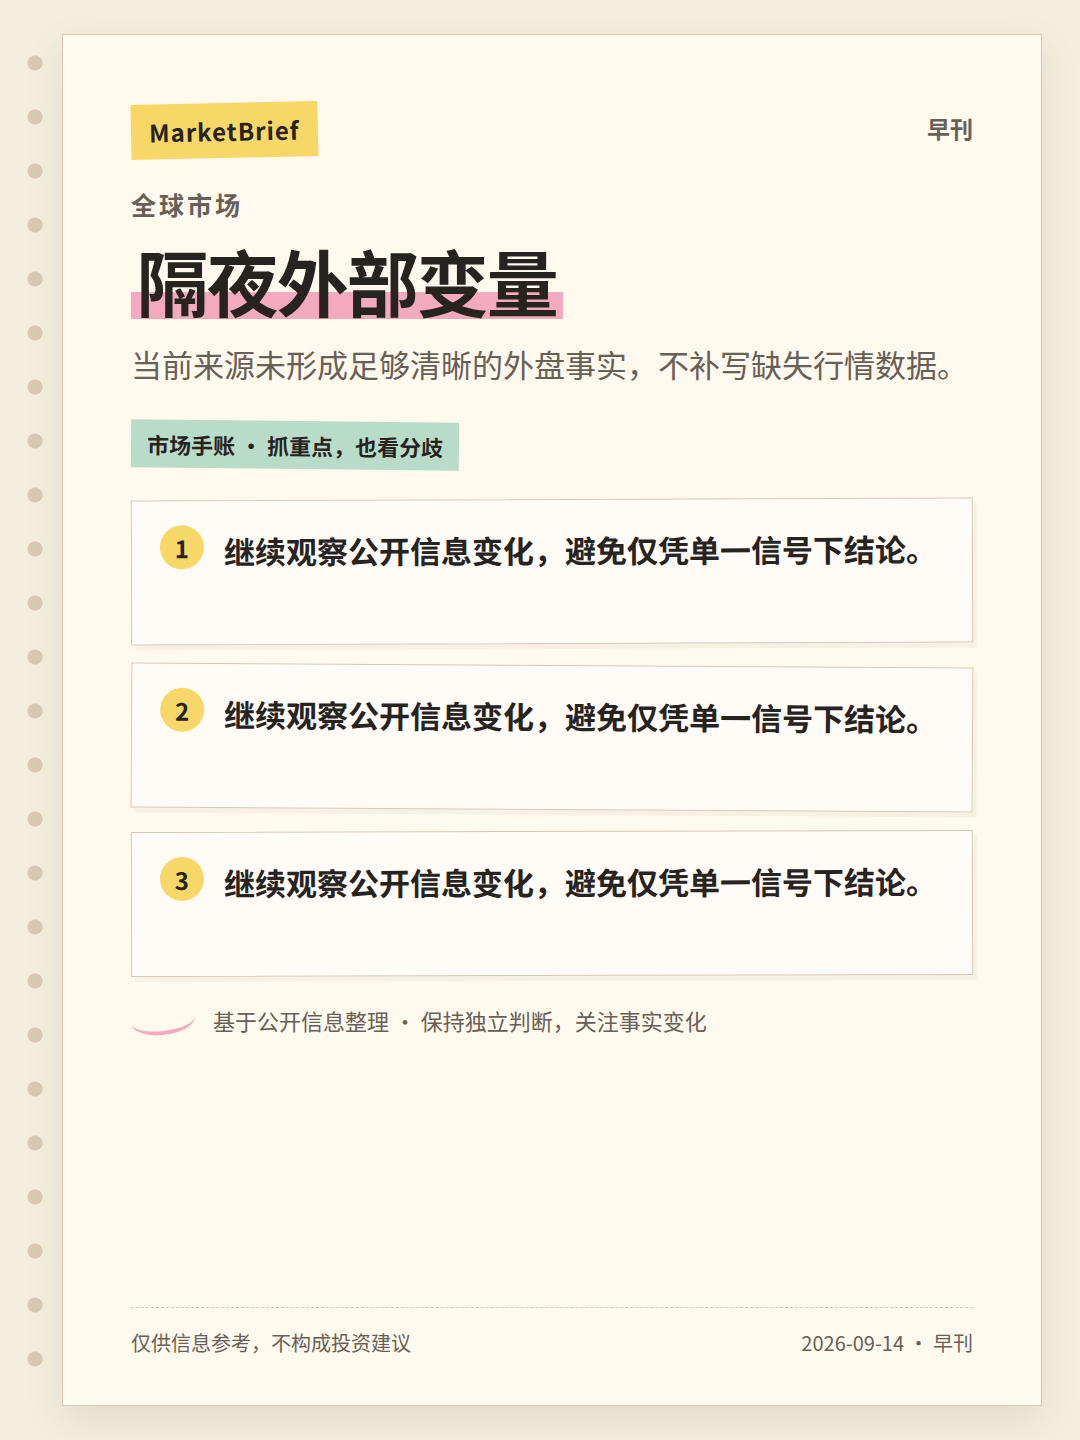
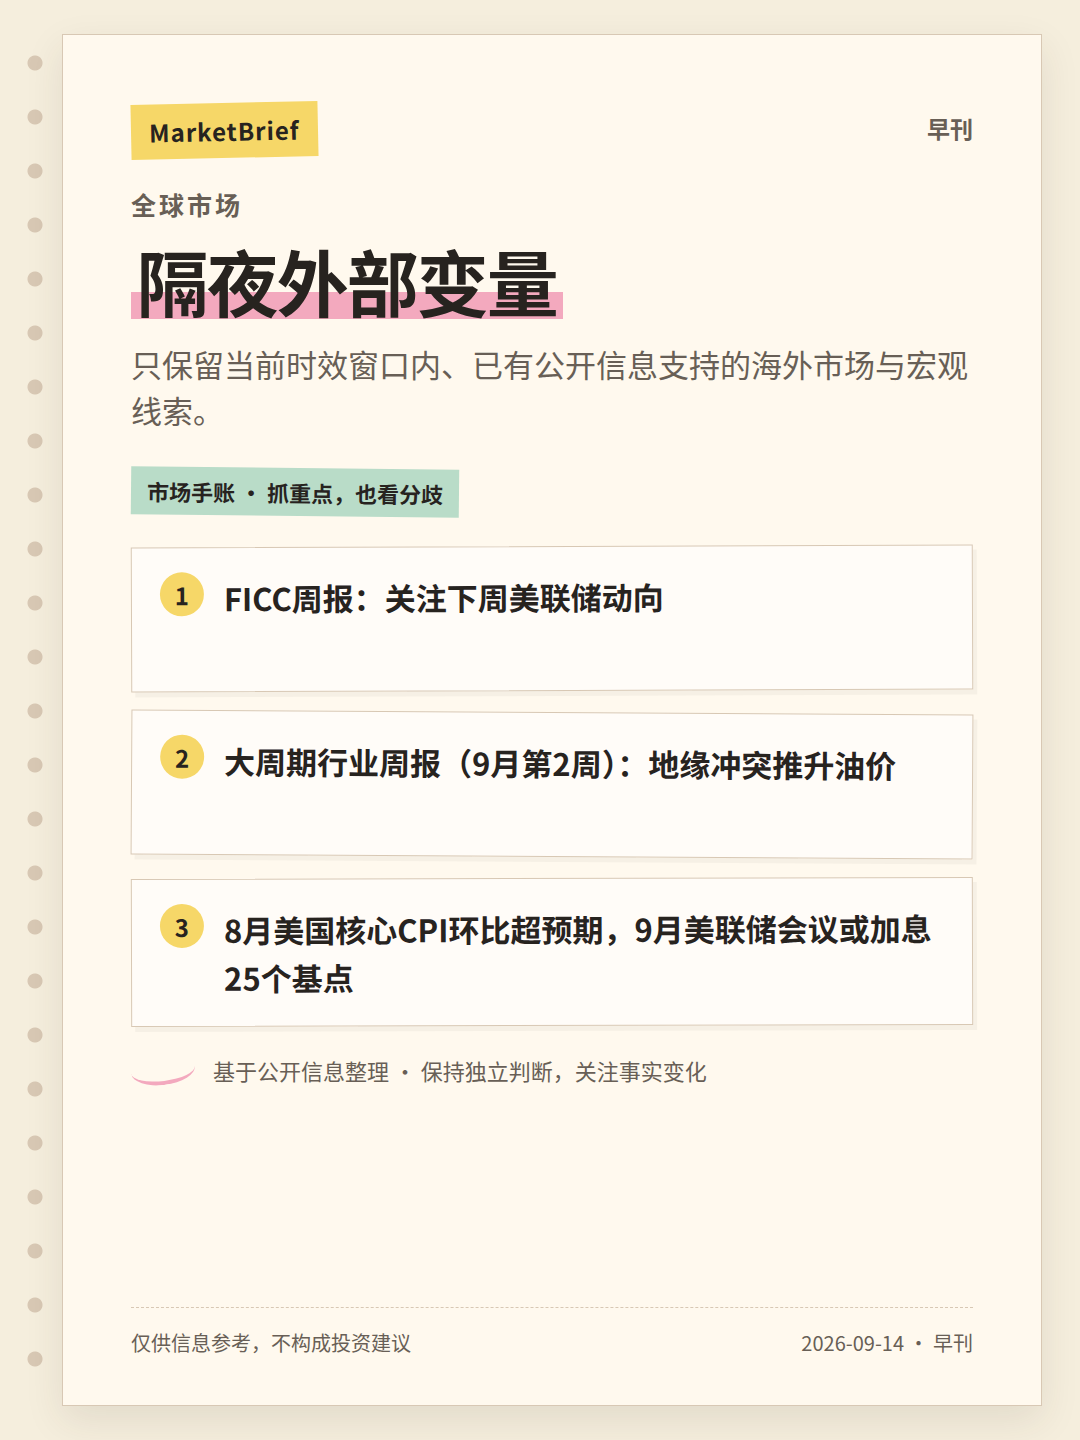
MarketBrief: publish dated edition

Changed region(s): [[0.1222, 0.2188, 0.8861, 0.4375], [0.1528, 0.5938, 0.8556, 0.75], [0.1222, 0.4688, 0.8556, 0.5625]]

diff --git a/output/marketbrief/2026-09-14/am/2026-09-14-am-01.html b/output/marketbrief/2026-09-14/am/2026-09-14-am-01.html
@@ -24,10 +24,10 @@ footer{position:absolute;z-index:1;left:68px;right:68px;bottom:48px;border-top:1
 <body><main>
 <div class="top"><span class="tape">MarketBrief</span><span class="edition">早刊</span></div>
 <div class="kicker">今日简报</div>
-<h1><span>雪天盐业发行股份、沈鼓集团主板IP成焦点</span></h1>
-<div class="sub">早刊基于4份有效来源分析，当前重点为雪天盐业发行股份、沈鼓集团主板IP。仅保留时效合格的公开信息，事实、研究观点与市场情绪分开呈现。</div>
+<h1><span>FICC周报：关、大周期行业周报：成焦点</span></h1>
+<div class="sub">早刊基于5份有效来源分析，当前重点为FICC周报：关、大周期行业周报：。仅保留时效合格的公开信息，事实、研究观点与市场情绪分开呈现。</div>
 <div class="ribbon">市场手账 · 抓重点，也看分歧</div>
-<div class="notes"><section class="note"><b>1</b><p>雪天盐业发行股份购买资产预案更正：发布更正后预案及更正提示公告，涉及发行股份及支付现金购买资产并募集配套资金暨关联交易</p></section><section class="note"><b>2</b><p>沈鼓集团主板IPO发行完成：首次公开发行股票并在主板上市发行结果公告及招股说明书提示性公告</p></section><section class="note"><b>3</b><p>鸿路钢构签订重大经营协议：公司签订重大经营协议，涉及业务扩张或订单获取</p></section></div>
+<div class="notes"><section class="note"><b>1</b><p>FICC周报：关注下周美联储动向</p></section><section class="note"><b>2</b><p>大周期行业周报（9月第2周）：地缘冲突推升油价</p></section><section class="note"><b>3</b><p>8月美国核心CPI环比超预期，9月美联储会议或加息25个基点</p></section></div>
 <div class="margin"><span class="sketch"></span><span>基于公开信息整理 · 保持独立判断，关注事实变化</span></div>
 <footer><span>仅供信息参考，不构成投资建议</span><span>2026-09-14 · 早刊</span></footer>
 </main></body></html>

diff --git a/output/marketbrief/2026-09-14/am/2026-09-14-am-05.html b/output/marketbrief/2026-09-14/am/2026-09-14-am-05.html
@@ -27,7 +27,7 @@ footer{position:absolute;z-index:1;left:68px;right:68px;bottom:48px;border-top:1
 <h1><span>事实、观点与情绪分开看</span></h1>
 <div class="sub">先看已确认事实，再看研究判断和市场情绪是否一致。</div>
 <div class="ribbon">市场手账 · 抓重点，也看分歧</div>
-<div class="notes"><section class="note"><b>1</b><p>雪天盐业发行股份购买资产预案更正：发布更正后预案及更正提示公告，涉及发行股份及支付现金购买资产并募集配套资金暨关联交易</p></section><section class="note"><b>2</b><p>AI产业链业绩放量：鹏鼎控股AI业务放量对冲端侧疲软、毛利率提升超5pct；广电运通AI机器人及算力业务前景可期；顺络电子TLVR电感与钽电容构筑AI增量；思特威&#x27;3+AI&#x27;驱动多元发展</p></section><section class="note"><b>3</b><p>CPO板块持续活跃：易中天相关个股大涨，CPO概念板块热度居前</p></section></div>
+<div class="notes"><section class="note"><b>1</b><p>关于刊发H股招股说明书、H股发行价格上限及H股香港公开发售等事宜的公告</p></section><section class="note"><b>2</b><p>FICC周报：关注下周美联储动向</p></section><section class="note"><b>3</b><p>CPO板块持续活跃：易中天等个股大涨，板块热度居前</p></section></div>
 <div class="margin"><span class="sketch"></span><span>基于公开信息整理 · 保持独立判断，关注事实变化</span></div>
 <footer><span>仅供信息参考，不构成投资建议</span><span>2026-09-14 · 早刊</span></footer>
 </main></body></html>

diff --git a/output/marketbrief/2026-09-14/am/2026-09-14-am-04.html b/output/marketbrief/2026-09-14/am/2026-09-14-am-04.html
@@ -27,7 +27,7 @@ footer{position:absolute;z-index:1;left:68px;right:68px;bottom:48px;border-top:1
 <h1><span>主线与事件交叉验证</span></h1>
 <div class="sub">优先采用官方与研究信息，社区热度只作为辅助信号。</div>
 <div class="ribbon">市场手账 · 抓重点，也看分歧</div>
-<div class="notes"><section class="note"><b>1</b><p>雪天盐业发行股份购买资产预案更正：发布更正后预案及更正提示公告，涉及发行股份及支付现金购买资产并募集配套资金暨关联交易</p></section><section class="note"><b>2</b><p>沈鼓集团主板IPO发行完成：首次公开发行股票并在主板上市发行结果公告及招股说明书提示性公告</p></section><section class="note"><b>3</b><p>鸿路钢构签订重大经营协议：公司签订重大经营协议，涉及业务扩张或订单获取</p></section></div>
+<div class="notes"><section class="note"><b>1</b><p>关于刊发H股招股说明书、H股发行价格上限及H股香港公开发售等事宜的公告</p></section><section class="note"><b>2</b><p>海航控股：2026年第三次临时股东会会议材料</p></section><section class="note"><b>3</b><p>发行股份及支付现金购买资产并募集配套资金暨关联交易预案摘要（更正后）</p></section></div>
 <div class="margin"><span class="sketch"></span><span>基于公开信息整理 · 保持独立判断，关注事实变化</span></div>
 <footer><span>仅供信息参考，不构成投资建议</span><span>2026-09-14 · 早刊</span></footer>
 </main></body></html>

diff --git a/output/marketbrief/2026-09-14/am/2026-09-14-am-02.html b/output/marketbrief/2026-09-14/am/2026-09-14-am-02.html
@@ -25,9 +25,9 @@ footer{position:absolute;z-index:1;left:68px;right:68px;bottom:48px;border-top:1
 <div class="top"><span class="tape">MarketBrief</span><span class="edition">早刊</span></div>
 <div class="kicker">全球市场</div>
 <h1><span>隔夜外部变量</span></h1>
-<div class="sub">当前来源未形成足够清晰的外盘事实，不补写缺失行情数据。</div>
+<div class="sub">只保留当前时效窗口内、已有公开信息支持的海外市场与宏观线索。</div>
 <div class="ribbon">市场手账 · 抓重点，也看分歧</div>
-<div class="notes"><section class="note"><b>1</b><p>继续观察公开信息变化，避免仅凭单一信号下结论。</p></section><section class="note"><b>2</b><p>继续观察公开信息变化，避免仅凭单一信号下结论。</p></section><section class="note"><b>3</b><p>继续观察公开信息变化，避免仅凭单一信号下结论。</p></section></div>
+<div class="notes"><section class="note"><b>1</b><p>FICC周报：关注下周美联储动向</p></section><section class="note"><b>2</b><p>大周期行业周报（9月第2周）：地缘冲突推升油价</p></section><section class="note"><b>3</b><p>8月美国核心CPI环比超预期，9月美联储会议或加息25个基点</p></section></div>
 <div class="margin"><span class="sketch"></span><span>基于公开信息整理 · 保持独立判断，关注事实变化</span></div>
 <footer><span>仅供信息参考，不构成投资建议</span><span>2026-09-14 · 早刊</span></footer>
 </main></body></html>

diff --git a/output/marketbrief/2026-09-14/am/2026-09-14-am-03.html b/output/marketbrief/2026-09-14/am/2026-09-14-am-03.html
@@ -27,7 +27,7 @@ footer{position:absolute;z-index:1;left:68px;right:68px;bottom:48px;border-top:1
 <h1><span>A股结构与资金</span></h1>
 <div class="sub">只呈现有当前证据支持的指数、成交、涨跌结构和资金特征。</div>
 <div class="ribbon">市场手账 · 抓重点，也看分歧</div>
-<div class="notes"><section class="note"><b>1</b><p>三一重工首次回购A股股份：以集中竞价交易方式首次回购公司A股股份，释放管理层信心信号</p></section><section class="note"><b>2</b><p>继续观察公开信息变化，避免仅凭单一信号下结论。</p></section><section class="note"><b>3</b><p>继续观察公开信息变化，避免仅凭单一信号下结论。</p></section></div>
+<div class="notes"><section class="note"><b>1</b><p>策略周报：等待海外不确定性落地，A股蓄势修复</p></section><section class="note"><b>2</b><p>继续观察公开信息变化，避免仅凭单一信号下结论。</p></section><section class="note"><b>3</b><p>继续观察公开信息变化，避免仅凭单一信号下结论。</p></section></div>
 <div class="margin"><span class="sketch"></span><span>基于公开信息整理 · 保持独立判断，关注事实变化</span></div>
 <footer><span>仅供信息参考，不构成投资建议</span><span>2026-09-14 · 早刊</span></footer>
 </main></body></html>

diff --git a/output/marketbrief/2026-09-14/am/2026-09-14-am-06.html b/output/marketbrief/2026-09-14/am/2026-09-14-am-06.html
@@ -27,7 +27,7 @@ footer{position:absolute;z-index:1;left:68px;right:68px;bottom:48px;border-top:1
 <h1><span>后续变量仍需确认</span></h1>
 <div class="sub">只保留来源自身限制和当前证据中的风险项，不额外推演。</div>
 <div class="ribbon">市场手账 · 抓重点，也看分歧</div>
-<div class="notes"><section class="note"><b>1</b><p>部分社区信息存在时效性不足，过期内容已从当前证据中剔除。</p></section><section class="note"><b>2</b><p>页面内容为实时行情数据，无独立发布日期，仅可作为市场情绪参考</p></section><section class="note"><b>3</b><p>社区来源，非官方事实锚，不可作为事实依据</p></section></div>
+<div class="notes"><section class="note"><b>1</b><p>来源为社区热股榜单，仅为情绪/讨论线索，非官方事实锚</p></section><section class="note"><b>2</b><p>部分社区信息存在时效性不足，过期内容已从当前证据中剔除。</p></section><section class="note"><b>3</b><p>页面内容为实时行情列表，不构成事件性信息</p></section></div>
 <div class="margin"><span class="sketch"></span><span>基于公开信息整理 · 保持独立判断，关注事实变化</span></div>
 <footer><span>仅供信息参考，不构成投资建议</span><span>2026-09-14 · 早刊</span></footer>
 </main></body></html>

diff --git a/output/marketbrief/2026-09-14/am/brief.md b/output/marketbrief/2026-09-14/am/brief.md
@@ -1,41 +1,44 @@
-# 雪天盐业发行股份、沈鼓集团主板IP成焦点
+# FICC周报：关、大周期行业周报：成焦点
 
-> 早刊基于4份有效来源分析，当前重点为雪天盐业发行股份、沈鼓集团主板IP。仅保留时效合格的公开信息，事实、研究观点与市场情绪分开呈现。
+> 早刊基于5份有效来源分析，当前重点为FICC周报：关、大周期行业周报：。仅保留时效合格的公开信息，事实、研究观点与市场情绪分开呈现。
 
 ## 隔夜外部变量
 
-当前来源未形成足够清晰的外盘事实，不补写缺失行情数据。
+只保留当前时效窗口内、已有公开信息支持的海外市场与宏观线索。
 
+- FICC周报：关注下周美联储动向
+- 大周期行业周报（9月第2周）：地缘冲突推升油价
+- 8月美国核心CPI环比超预期，9月美联储会议或加息25个基点
 
 ## A股结构与资金
 
 只呈现有当前证据支持的指数、成交、涨跌结构和资金特征。
 
-- 三一重工首次回购A股股份：以集中竞价交易方式首次回购公司A股股份，释放管理层信心信号
+- 策略周报：等待海外不确定性落地，A股蓄势修复
 
 ## 主线与事件交叉验证
 
 优先采用官方与研究信息，社区热度只作为辅助信号。
 
-- 雪天盐业发行股份购买资产预案更正：发布更正后预案及更正提示公告，涉及发行股份及支付现金购买资产并募集配套资金暨关联交易
-- 沈鼓集团主板IPO发行完成：首次公开发行股票并在主板上市发行结果公告及招股说明书提示性公告
-- 鸿路钢构签订重大经营协议：公司签订重大经营协议，涉及业务扩张或订单获取
+- 关于刊发H股招股说明书、H股发行价格上限及H股香港公开发售等事宜的公告
+- 海航控股：2026年第三次临时股东会会议材料
+- 发行股份及支付现金购买资产并募集配套资金暨关联交易预案摘要（更正后）
 
 ## 事实、观点与情绪分开看
 
 先看已确认事实，再看研究判断和市场情绪是否一致。
 
-- 雪天盐业发行股份购买资产预案更正：发布更正后预案及更正提示公告，涉及发行股份及支付现金购买资产并募集配套资金暨关联交易
-- AI产业链业绩放量：鹏鼎控股AI业务放量对冲端侧疲软、毛利率提升超5pct；广电运通AI机器人及算力业务前景可期；顺络电子TLVR电感与钽电容构筑AI增量；思特威'3+AI'驱动多元发展
-- CPO板块持续活跃：易中天相关个股大涨，CPO概念板块热度居前
+- 关于刊发H股招股说明书、H股发行价格上限及H股香港公开发售等事宜的公告
+- FICC周报：关注下周美联储动向
+- CPO板块持续活跃：易中天等个股大涨，板块热度居前
 
 ## 后续变量仍需确认
 
 只保留来源自身限制和当前证据中的风险项，不额外推演。
 
+- 来源为社区热股榜单，仅为情绪/讨论线索，非官方事实锚
 - 部分社区信息存在时效性不足，过期内容已从当前证据中剔除。
-- 页面内容为实时行情数据，无独立发布日期，仅可作为市场情绪参考
-- 社区来源，非官方事实锚，不可作为事实依据
+- 页面内容为实时行情列表，不构成事件性信息
 
 ## 信息口径
 
@@ -46,5 +49,5 @@
 本文仅作公开信息整理与讨论，不构成任何投资建议。
 
 刊期：2026-09-14 早刊  
-生成时间：2026-09-14T02:43:44+08:00  
-模型：`SenseNova` · 调用 4 次 · Token 14805
+生成时间：2026-09-14T11:29:40+08:00  
+模型：`SenseNova` · 调用 1 次 · Token 3506
